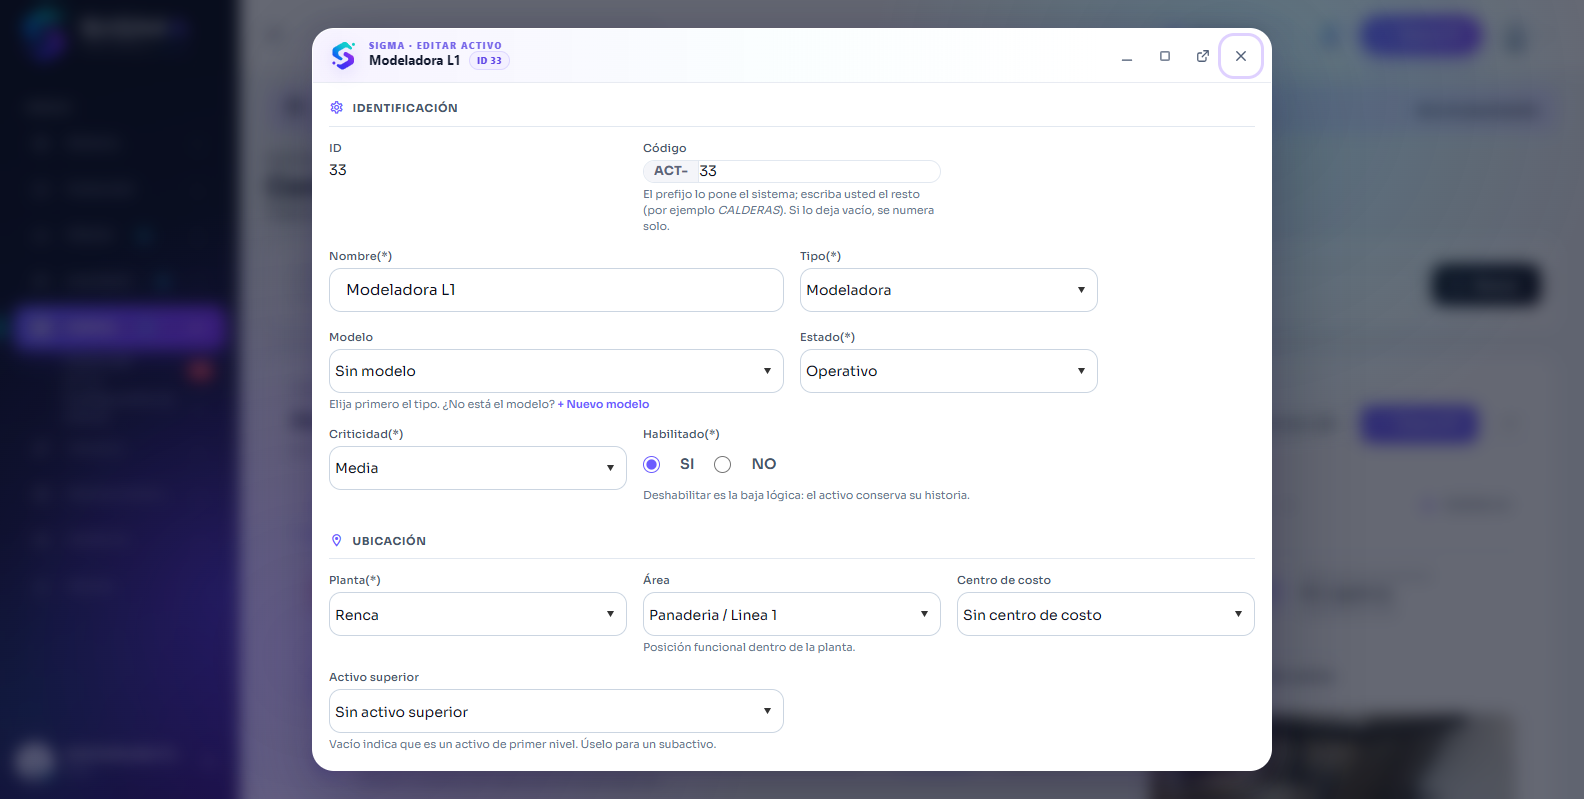
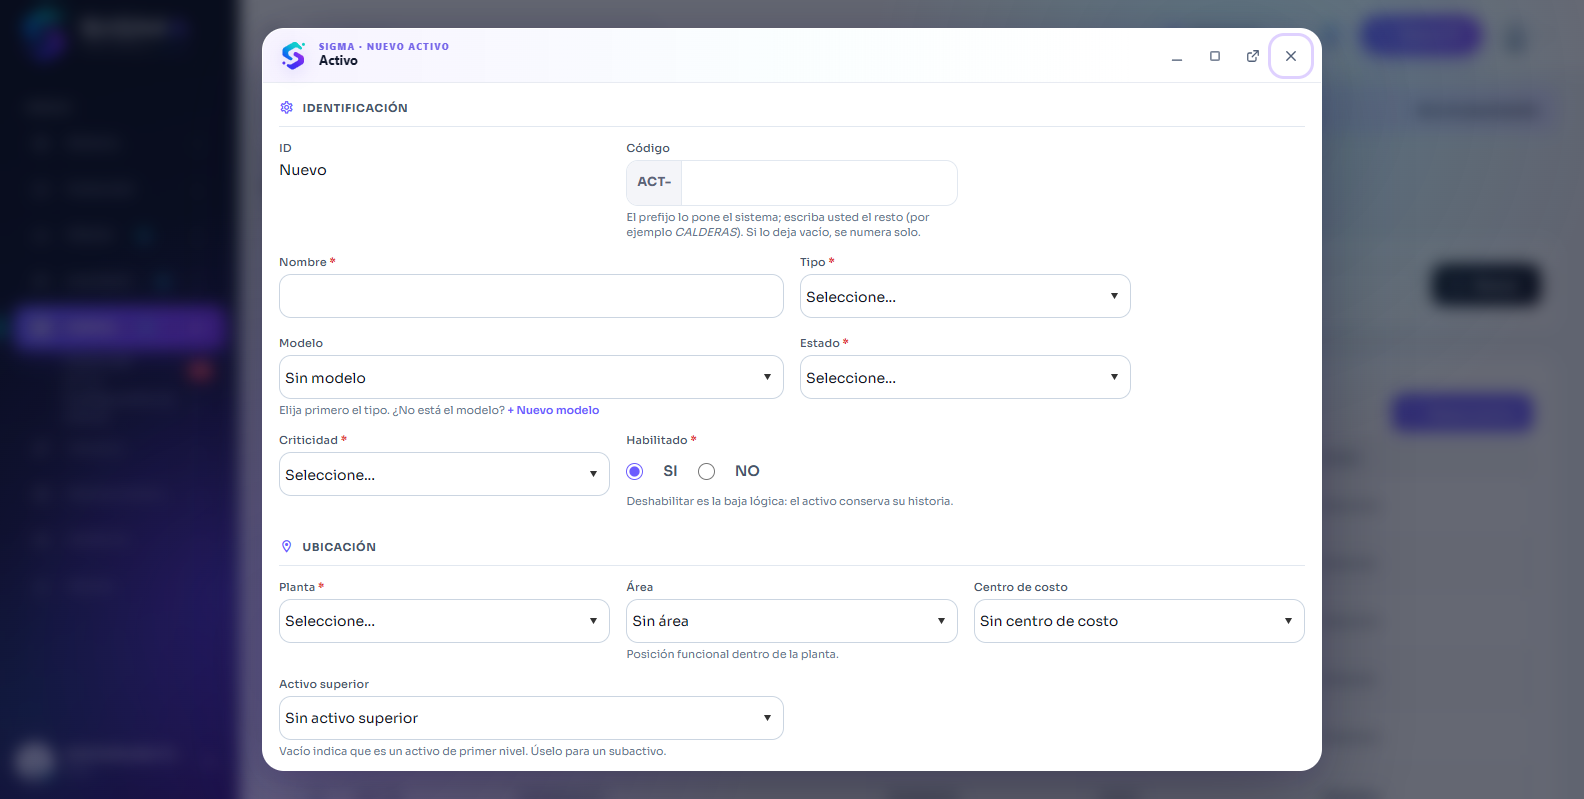
La ficha del activo queda como el mockup
El formulario compartido ya estaba; lo que faltaba era la piel del centro:

- Las secciones dejan de gritar en mayusculas y llevan su icono en una
  ficha redondeada. El ID no se muestra: quien mira un equipo lo reconoce
  por su codigo -ACT-34-, no por el numero de la fila.
- El asterisco del campo obligatorio se ve en rojo, en vez de leerse
  entre parentesis.
- Los campos entran de a tres y de a cuatro por fila como el mockup.
  sigma-orden.css reparte los campos de CUALQUIER rejilla dentro de un
  .sg-ot, y el centro lo es: ahi un campo "chico" medía un tercio y uno
  "medio" la mitad, que para la orden esta bien y para la ficha dejaba
  dos campos donde caben tres.
- Habilitado se lee de un vistazo: dos botones pegados con el elegido
  marcado, en vez de dos radios sueltos.
- La imagen y los documentos son zonas con borde punteado; la imagen
  dice "Sin imagen" y como ponerla, porque un boton solo no distingue
  entre "no tiene foto" y "la foto no cargo".
- Los datos tecnicos llevan encabezado -Nombre, Valor, Unidad-.
- La auditoria se mudo a la barra de abajo, al lado de Guardar: quien
  cambio esto por ultima vez es el dato que se mira JUSTO ANTES de tocar
  algo, no al final de la ficha.
- La columna derecha empieza arriba: sin grid-auto-flow dense la rejilla
  no vuelve atras a buscar hueco y la imagen arrancaba en la fila cuatro.

El modal de alta no cambio: sigue abriendo con sus seis secciones y su
Guardar, verificado despues de la extraccion.
[…]

diff --git a/Web/Intranet/Css/LookAndFeel/sigma-activo360.css b/Web/Intranet/Css/LookAndFeel/sigma-activo360.css
@@ -595,11 +595,19 @@ a.sg-a3-chip.es-activa b { color: #fff; }
     margin: 0;
 }
 @media (min-width: 1100px) {
+    /* La columna de la derecha tiene un ancho fijo -lo que adjunta cabe en
+       400px- para que la de la izquierda se quede con todo lo demas y los
+       campos entren de a tres. */
     .sg-a3-ficha-grid {
         display: grid;
-        grid-template-columns: 1.65fr 1fr;
+        grid-template-columns: minmax(0, 1fr) 400px;
         gap: 14px;
         align-items: start;
+
+        /* Sin "dense" la imagen arranca en la fila 4 -debajo de las tres
+           secciones de la izquierda- porque la rejilla no vuelve atras a
+           buscar hueco. La columna derecha tiene que empezar arriba. */
+        grid-auto-flow: dense;
     }
 
     /* Izquierda lo que se escribe, derecha lo que se adjunta. Cada seccion
@@ -645,3 +653,102 @@ a.sg-a3-chip.es-activa b { color: #fff; }
 }
 .sg-a3-ficha-sucio i { font-size: 18px; color: #f59e0b; }
 .sg-a3-ficha.es-sucia .sg-a3-ficha-sucio { display: inline-flex; }
+
+/* ---- La ficha dentro del centro: el mismo formulario, otra piel ---------- */
+
+/* El id no se muestra: quien mira la ficha de un equipo lo reconoce por su
+   codigo -ACT-34-, no por el numero de la fila. */
+.sg-a3-ficha .es-id { display: none; }
+
+/* Los titulos de seccion dejan de gritar: en el modal son una guia rapida,
+   aca son la estructura de una pantalla. */
+.sg-a3-ficha .sigma-form-seccion .titulo {
+    display: flex;
+    align-items: center;
+    gap: 9px;
+    text-transform: none;
+    font-size: 15px;
+    font-weight: 700;
+    letter-spacing: 0;
+    color: var(--sg-texto);
+    border: 0;
+    padding: 0 0 12px;
+}
+.sg-a3-ficha .sigma-form-seccion .titulo i {
+    display: grid;
+    place-items: center;
+    width: 30px;
+    height: 30px;
+    border-radius: 9px;
+    background: #ede9fe;
+    color: #6d28d9;
+    font-size: 17px;
+}
+
+/* Habilitado se lee de un vistazo: dos botones pegados, el elegido marcado. */
+.sg-a3-ficha .sigma-modal-opciones {
+    display: inline-flex;
+    padding: 3px;
+    border: 1px solid var(--sg-borde);
+    border-radius: 999px;
+    background: #f4f5fa;
+}
+.sg-a3-ficha .sigma-modal-opciones label {
+    padding: 5px 16px;
+    border-radius: 999px;
+    font-size: 12.5px;
+    font-weight: 600;
+    color: var(--sg-suave);
+    cursor: pointer;
+}
+.sg-a3-ficha .sigma-modal-opciones input { display: none; }
+.sg-a3-ficha .sigma-modal-opciones input:checked + label {
+    background: var(--sg-p);
+    color: #fff;
+}
+
+/* Los datos de auditoria, en la barra de abajo. */
+.sg-a3-pie-dato {
+    display: inline-flex;
+    align-items: center;
+    gap: 7px;
+    margin-right: 22px;
+}
+.sg-a3-pie-dato i { font-size: 17px; color: var(--sg-tenue); }
+.sg-a3-pie-dato b { display: block; color: var(--sg-suave); font-weight: 700; }
+
+/* ---- El reparto de campos de la ficha dentro del centro ------------------
+
+   sigma-orden.css reparte los campos de CUALQUIER .sigma-modal-grid que este
+   dentro de un .sg-ot, y el centro lo es: ahi un campo "chico" mide un tercio
+   y uno "medio" la mitad, que para la orden esta bien y para la ficha deja
+   dos campos por fila donde caben tres. Se vuelve al reparto de la ficha.
+   ------------------------------------------------------------------------ */
+@media (min-width: 1100px) {
+    .sg-ot .sg-a3-ficha .sigma-modal-grid > .sigma-modal-field { grid-column: span 4; }
+    .sg-ot .sg-a3-ficha .sigma-modal-grid > .sigma-modal-field.is-chico { grid-column: span 4; }
+    .sg-ot .sg-a3-ficha .sigma-modal-grid > .sigma-modal-field.is-medio { grid-column: span 4; }
+    .sg-ot .sg-a3-ficha .sigma-modal-grid > .sigma-modal-field.is-cuarto { grid-column: span 3; }
+    .sg-ot .sg-a3-ficha .sigma-modal-grid > .sigma-modal-field.is-grande { grid-column: span 8; }
+    .sg-ot .sg-a3-ficha .sigma-modal-grid > .sigma-modal-field.is-ancho { grid-column: span 12; }
+}
+
+/* La columna de la derecha es angosta: lo que en el modal iba en una linea
+   -boton, nombre del archivo, quitar- aca se apila. */
+.sg-a3-ficha .es-imagen .sigma-modal-field > label,
+.sg-a3-ficha .es-documentos .sigma-modal-field > label { display: none; }
+
+.sg-a3-ficha .sigma-img-uploader {
+    flex-direction: column;
+    align-items: stretch;
+    gap: 10px;
+}
+.sg-a3-ficha .sigma-img-btn { justify-content: center; white-space: nowrap; }
+
+.sg-a3-ficha #pnlImagenActual > div,
+.sg-a3-ficha [id$="pnlImagenActual"] > div {
+    flex-direction: column;
+    align-items: flex-start;
+}
+.sg-a3-ficha [id$="pnlImagenActual"] img { max-width: 100%; }
+.sg-a3-ficha [id$="pnlImagenActual"] label { white-space: normal; line-height: 1.35; }

diff --git a/Web/Intranet/Css/LookAndFeel/sigma-modal.css b/Web/Intranet/Css/LookAndFeel/sigma-modal.css
@@ -201,6 +201,7 @@ html.sigma-dialog-child .sigma-modal .sigma-modal-hero:first-of-type {
 .sigma-modal-grid > .is-mini   { grid-column: span 2; }  /* ID, un numero corto   */
 .sigma-modal-grid > .is-chico  { grid-column: span 3; }  /* codigo, fecha, cantidad */
 .sigma-modal-grid > .is-medio  { grid-column: span 4; }  /* explicito, por claridad */
+.sigma-modal-grid > .is-cuarto { grid-column: span 3; }  /* cuatro por fila       */
 .sigma-modal-grid > .is-cinco  { grid-column: span 5; }  /* un grupo de casillas   */
 .sigma-modal-grid > .is-mitad  { grid-column: span 6; }
 .sigma-modal-grid > .is-grande { grid-column: span 8; }

diff --git a/Web/Intranet/View/Activos/Activos/ActivoForm.ascx.cs b/Web/Intranet/View/Activos/Activos/ActivoForm.ascx.cs
@@ -238,6 +238,7 @@ public partial class View_Activos_Activos_ActivoForm : System.Web.UI.UserControl
            izquierda, lo que se adjunta a la derecha-; el modal es angosto y
            las deja una debajo de otra. La diferencia es una clase. */
         pnlSecciones.CssClass = EnCentro ? "sg-a3-ficha-grid" : "";
+        wucAuditoria.Visible = !EnCentro;
 
         CargarDatos();
         CargarModelos();   // depende del tipo ya seleccionado por CargarDatos
@@ -500,11 +501,19 @@ public partial class View_Activos_Activos_ActivoForm : System.Web.UI.UserControl
             rdbSi.Checked = entidad.act_habilitado;
             rdbNo.Checked = !entidad.act_habilitado;
 
+            /* En el centro la auditoria va en la barra fija de abajo, al lado
+               de Guardar: es el dato que se mira justo antes de tocar algo
+               -quien fue el ultimo que lo cambio- y no al final de la ficha. */
+            litAuditoriaPie.Text =
+                Pie("mdi-account-plus-outline", "Creado", entidad.usuario_creacion_nombre, entidad.act_fecha_creacion) +
+                Pie("mdi-clock-outline", "Última edición", entidad.usuario_actualizacion_nombre, entidad.act_fecha_actualizacion);
+
             wucAuditoria.Mostrar(entidad.usuario_creacion_nombre, entidad.act_fecha_creacion,
                                  entidad.usuario_actualizacion_nombre, entidad.act_fecha_actualizacion);
 
             // Vista previa de la imagen actual, si la tiene.
             int idImagen = new ActivoImagenController().GetImagenId(ActivoId, SitioBase.Session.ClienteId());
+            pnlSinImagen.Visible = idImagen <= 0;
             if (idImagen > 0)
             {
                 imgActual.Src = UrlArchivo.Ver(idImagen);
@@ -522,6 +531,18 @@ public partial class View_Activos_Activos_ActivoForm : System.Web.UI.UserControl
     /// excepción de RadComboBox cuando el id ya no está en la lista (por
     /// ejemplo, un tipo deshabilitado después de haberse asignado).
     /// </summary>
+    /// <summary>Un dato de la barra de abajo: quien y cuando.</summary>
+    private string Pie(string icono, string etiqueta, string usuario, DateTime? fecha)
+    {
+        if (fecha == null && string.IsNullOrEmpty(usuario)) return "";
+
+        return "<span class=\"sg-a3-pie-dato\"><i class=\"mdi " + icono + "\"></i>" +
+               "<span><b>" + Server.HtmlEncode(etiqueta) + "</b>" +
+               Server.HtmlEncode(string.IsNullOrEmpty(usuario) ? "Sin registro" : usuario) +
+               (fecha == null ? "" : " · " + fecha.Value.ToString("dd MMM yyyy HH:mm")) +
+               "</span></span>";
+    }
+
     private void SeleccionarCombo(RadComboBox2 combo, int id)
     {
         RadComboBoxItem item = combo.FindItemByValue(id.ToString());
